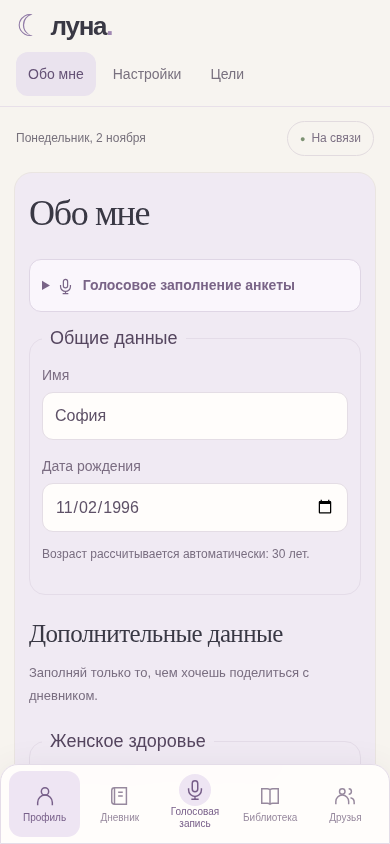
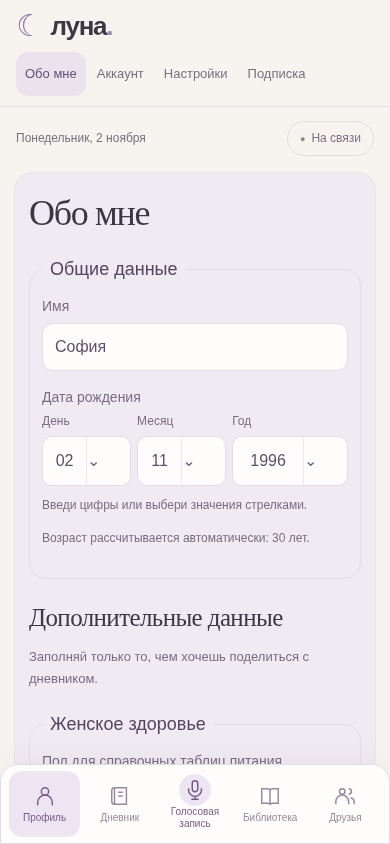
Split birthday into typed and selectable parts and refresh profile navigation

diff --git a/index.html b/index.html
@@ -1,9 +1,13 @@
 <!doctype html>
 <html lang="ru"><head><meta charset="utf-8"><meta name="viewport" content="width=device-width, initial-scale=1, viewport-fit=cover"><meta name="theme-color" content="#f7f4ef"><meta name="description" content="Луна — дневник цикла, сна и питания"><link rel="manifest" href="./manifest.webmanifest"><link rel="icon" href="./icon.svg"><link rel="apple-touch-icon" href="./icon-192.png"><link rel="stylesheet" href="./style.css"><link rel="stylesheet" href="./mobile.css"><link rel="stylesheet" href="./capture.css"><link rel="stylesheet" href="./profile.css"><title>Луна — в своём ритме</title></head>
-<body><div class="layout"><aside class="sidebar"><a class="logo" href="#home"><span>☾</span> луна<span class="logo-dot">.</span></a><p class="tagline">В СВОЁМ РИТМЕ</p><nav data-menu="profile" aria-label="Разделы профиля"><a href="#profile"><span class="menu-icon" aria-hidden="true">◉</span><span>Обо мне</span></a><a href="#settings"><span class="menu-icon" aria-hidden="true">⚙</span><span>Настройки</span></a><a href="#goals"><span class="menu-icon" aria-hidden="true">◎</span><span>Цели</span></a></nav><nav data-menu="diary" aria-label="Разделы дневника" hidden><a href="#home" aria-label="Мой день">◌ <span data-short="Сегодня">Мой день</span></a><a href="#cycle" aria-label="Мой цикл">✿ <span data-short="Цикл">Мой цикл</span></a><a href="#sleep" aria-label="Сон и отдых">☾ <span data-short="Сон">Сон и отдых</span></a><a href="#food" aria-label="Питание">♧ <span data-short="Питание">Питание</span></a><a href="#activity" aria-label="Активность и заметки"><span data-short="Ещё">Активность и заметки</span></a></nav><nav data-menu="library" aria-label="Разделы библиотеки" hidden><a href="#library"><span>Библиотека</span></a></nav><nav data-menu="friends" aria-label="Разделы друзей" hidden><a href="#friends"><span>Друзья</span></a></nav><div class="sidebar-note">Место, где можно<br>прислушаться к себе.<span>Твои данные остаются<br>в этом браузере.</span></div></aside>
+<body><div class="layout"><aside class="sidebar"><a class="logo" href="#home"><span>☾</span> луна<span class="logo-dot">.</span></a><p class="tagline">В СВОЁМ РИТМЕ</p><nav data-menu="profile" aria-label="Разделы профиля"><a href="#profile"><span class="menu-icon" aria-hidden="true">◉</span><span>Обо мне</span></a><a href="#account"><span class="menu-icon" aria-hidden="true">◉</span><span>Аккаунт</span></a><a href="#settings"><span class="menu-icon" aria-hidden="true">⚙</span><span>Настройки</span></a><a href="#subscription"><span class="menu-icon" aria-hidden="true">◇</span><span>Подписка</span></a></nav><nav data-menu="diary" aria-label="Разделы дневника" hidden><a href="#home" aria-label="Мой день">◌ <span data-short="Сегодня">Мой день</span></a><a href="#cycle" aria-label="Мой цикл">✿ <span data-short="Цикл">Мой цикл</span></a><a href="#sleep" aria-label="Сон и отдых">☾ <span data-short="Сон">Сон и отдых</span></a><a href="#food" aria-label="Питание">♧ <span data-short="Питание">Питание</span></a><a href="#activity" aria-label="Активность и заметки"><span data-short="Ещё">Активность и заметки</span></a></nav><nav data-menu="library" aria-label="Разделы библиотеки" hidden><a href="#library"><span>Библиотека</span></a></nav><nav data-menu="friends" aria-label="Разделы друзей" hidden><a href="#friends"><span>Друзья</span></a></nav><div class="sidebar-note">Место, где можно<br>прислушаться к себе.<span>Твои данные остаются<br>в этом браузере.</span></div></aside>
 <main><header><span id="today"></span><span class="badge" id="connection">На связи</span></header><section data-main-view="profile" id="profile" class="card profile-card"><h1>Обо мне</h1>
 <form id="profile-form" class="profile-sections">
-<fieldset class="profile-group"><legend>Общие данные</legend><div class="profile-fields"><label>Имя<input id="profile-name" maxlength="60" required autocomplete="given-name"></label><label>Дата рождения<input id="profile-birthDate" type="date" required autocomplete="bday"></label></div><p id="profile-age-hint" class="fine"></p></fieldset>
+<fieldset class="profile-group"><legend>Общие данные</legend><div class="profile-fields"><label>Имя<input id="profile-name" maxlength="60" required autocomplete="given-name"></label><div class="birth-group" role="group" aria-labelledby="birth-label"><span id="birth-label">Дата рождения</span><input id="profile-birthDate" type="hidden"><div class="birth-parts">
+<div class="birth-part"><label for="profile-birthDay">День</label><div class="birth-control"><input id="profile-birthDay" type="text" inputmode="numeric" autocomplete="bday-day" maxlength="2" pattern="[0-9]{1,2}" placeholder="ДД" required><select id="profile-pickDay" aria-label="Выбрать день"><option value="">⌄</option></select></div></div>
+<div class="birth-part"><label for="profile-birthMonth">Месяц</label><div class="birth-control"><input id="profile-birthMonth" type="text" inputmode="numeric" autocomplete="bday-month" maxlength="2" pattern="[0-9]{1,2}" placeholder="ММ" required><select id="profile-pickMonth" aria-label="Выбрать месяц"><option value="">⌄</option></select></div></div>
+<div class="birth-part"><label for="profile-birthYear">Год</label><div class="birth-control"><input id="profile-birthYear" type="text" inputmode="numeric" autocomplete="bday-year" maxlength="4" pattern="[0-9]{4}" placeholder="ГГГГ" required><select id="profile-pickYear" aria-label="Выбрать год"><option value="">⌄</option></select></div></div>
+</div><p class="fine birth-help">Введи цифры или выбери значения стрелками.</p></div></div><p id="profile-age-hint" class="fine"></p></fieldset>
 <div class="additional-heading"><h2>Дополнительные данные</h2><p class="fine">Заполняй только то, чем хочешь поделиться с дневником.</p></div>
 <fieldset class="profile-group"><legend>Женское здоровье</legend><div class="profile-fields"><label>Пол для справочных таблиц питания<select id="profile-sex"><option value="">Не указан</option><option value="female">Женский</option><option value="male">Мужской</option></select></label></div><div id="women-health-fields">
 <div class="profile-fields"><label>Менструальный статус<select id="profile-menstrualStage"><option value="unspecified">Не указан</option><option value="menstruating">Менструации есть</option><option value="premenarchal">Менструации ещё не начались</option><option value="amenorrhea">Менструаций сейчас нет — причина уточняется</option><option value="postpartum">Послеродовой период</option><option value="perimenopause">Перименопауза — переход к менопаузе</option><option value="menopause">Менопауза — установлена врачом</option><option value="surgical">После операции, влияющей на менструации</option><option value="treatment">Подавление менструаций на фоне лечения</option><option value="other">Другое / не хочу указывать</option></select></label>
@@ -31,7 +35,8 @@
 <section id="capture" data-main-view="capture" class="section card view-panel" hidden><span class="eyebrow">РАССКАЖИ О СВОЁМ ДНЕ</span><h2>Голосовая запись</h2><p class="muted">Расскажи, что ела, как спала или тренировалась. Проверь распознанные записи перед добавлением в дневники.</p><div id="capture-form"></div><form id="capture-review" class="stack" hidden><h3>Проверь записи</h3><p class="fine">Выбери точный продукт для расчёта КБЖУ. Если состава нет, сохрани текстовую заметку. Время сна указывается вместе с датами; отдельное пробуждение не меняет среднюю длительность сна.</p><div id="capture-items" class="stack"></div><button type="submit">Добавить в дневники</button></form><p id="capture-status" role="status" class="fine"></p><div id="capture-links"></div></section>
 <section id="activity" data-main-view="diary" class="section card" hidden><h2>Активность и заметки</h2><h3>Тренировки</h3><div id="workout-history" class="history"></div><h3>Другие записи</h3><div id="general-history" class="history"></div></section>
 <section id="settings" class="section card view-panel" data-main-view="profile" hidden><span class="eyebrow">МОЙ ПРОФИЛЬ</span><h2>Настройки</h2><h3>Мои данные</h3><p class="muted">Дневник и профиль хранятся в этом браузере. Скачай копию, чтобы сохранить записи отдельно.</p><button type="button" id="settings-export">Скачать копию данных</button><p class="fine">Выгрузка содержит личные записи. Храни файл в надёжном месте. Восстановление из файла пока недоступно.</p><a class="text-link" href="#profile">Изменить сведения обо мне →</a></section>
-<section id="goals" class="section card view-panel" data-main-view="profile" hidden><span class="eyebrow">МОЙ ПРОФИЛЬ</span><h2>Цели</h2><div class="empty-view"><span class="empty-symbol" aria-hidden="true">◎</span><h3>Твои цели начнутся здесь</h3><p>Раздел подготовлен. Добавление личных целей появится позже.</p></div></section>
+<section id="account" class="section card view-panel" data-main-view="profile" hidden><h2>Аккаунт</h2><h3>Мои данные</h3><p class="muted">Сейчас приложение работает без регистрации. Профиль и записи хранятся в этом браузере; вход и синхронизация между устройствами пока не подключены.</p><a class="text-link" href="#profile">Изменить сведения обо мне →</a><a class="text-link" href="#settings">Сохранить копию данных →</a></section>
+<section id="subscription" class="section card view-panel" data-main-view="profile" hidden><h2>Подписка</h2><p class="muted">Платные тарифы и оформление подписки пока не подключены.</p></section>
 <section id="library" class="section card view-panel" data-main-view="library" hidden><span class="eyebrow">УЗНАВАТЬ И ПОНИМАТЬ СЕБЯ</span><h2>Библиотека</h2><div class="empty-view"><span class="empty-symbol" aria-hidden="true">▤</span><h3>Место для полезных материалов</h3><p>Библиотека пока пуста. Здесь появятся материалы о питании, сне и самочувствии.</p></div></section>
 <section id="friends" class="section card view-panel" data-main-view="friends" hidden><span class="eyebrow">РЯДОМ ДРУГ С ДРУГОМ</span><h2>Друзья</h2><div class="empty-view"><span class="empty-symbol" aria-hidden="true">♧</span><h3>Твоё пространство общения</h3><p>Раздел подготовлен. Добавление друзей и общение пока недоступны.</p></div></section>
 <footer><span>луна. Меньше требований к себе, больше внимания.</span><button id="export-data" class="secondary">Скачать мои данные</button><button id="install" class="secondary" hidden>Установить приложение</button></footer><details class="privacy-details"><summary>Приватность и ограничения</summary><p class="privacy">Это первая версия дневника, не медицинский сервис. Записи дневника не отправляются на сервер и не синхронизируются. При поиске в Open Food Facts передаётся только поисковый запрос. При голосовом вводе браузер может передавать звук своему сервису распознавания; приложение не хранит аудио. Очистка браузера удалит записи — сохраняй резервную копию. Не используй общий профиль браузера для личных данных.</p></details><p id="notice" class="error" role="status"></p></main></div><nav class="bottom-nav" aria-label="Основная навигация"><a href="#profile" data-view="profile"><svg viewBox="0 0 24 24" aria-hidden="true"><circle cx="12" cy="7" r="4"/><path d="M4 22v-3a8 8 0 0 1 16 0v3"/></svg><span>Профиль</span></a><a href="#home" data-view="diary"><svg viewBox="0 0 24 24" aria-hidden="true"><path d="M6 3h13v18H6a3 3 0 0 1-3-3V6a3 3 0 0 1 3-3ZM6 3v18M10 8h5M10 12h5"/></svg><span>Дневник</span></a><a href="#capture" data-view="capture" class="capture-tab"><svg viewBox="0 0 24 24" aria-hidden="true"><rect x="9" y="2" width="6" height="12" rx="3"/><path d="M5 10v2a7 7 0 0 0 14 0v-2M12 19v3M8 22h8"/></svg><span>Голосовая запись</span></a><a href="#library" data-view="library"><svg viewBox="0 0 24 24" aria-hidden="true"><path d="M3 4h6a5 5 0 0 1 3 1 5 5 0 0 1 3-1h6v16h-6a5 5 0 0 0-3 1 5 5 0 0 0-3-1H3ZM12 5v16"/></svg><span>Библиотека</span></a><a href="#friends" data-view="friends"><svg viewBox="0 0 24 24" aria-hidden="true"><circle cx="9" cy="7" r="3"/><path d="M2 21v-3a7 7 0 0 1 14 0v3M16 4a3 3 0 0 1 0 6M18 14a5 5 0 0 1 4 5v2"/></svg><span>Друзья</span></a></nav><script src="./profile-model.js" defer></script><script src="./profile.js" defer></script><script src="./norms.js" defer></script><script src="./app.js" defer></script><script src="./profile-parser.js" defer></script><script src="./capture-parser.js" defer></script><script src="./voice.js" defer></script><script src="./capture.js" defer></script><script src="./navigation.js" defer></script></body></html>

diff --git a/profile.js b/profile.js
@@ -3,18 +3,22 @@
 (() => {
  const q=s=>document.querySelector(s),healthKeys=['menstrualStage','cyclePattern','cycleLength','periodLength','hormones','fertility','healthNotes'];
  const field=key=>q('#profile-'+key);let lastStatus=null;
- function update(){const birth=field('birthDate').value,years=LunaProfileModel.age(birth,localDate());q('#profile-age-hint').textContent=birth?(years===null?'Проверь дату рождения.':`Возраст рассчитывается автоматически: ${years} лет.`):state.profile&&!state.profile.birthDate?'Раньше был указан только возраст. Введи дату рождения — она не восстанавливается из возраста.':'';q('#women-health-fields').hidden=field('sex').value==='male';if(lastStatus==='lactating'&&field('status').value!=='lactating')field('breastfeeding').checked=false;field('breastfeeding').disabled=field('status').value==='lactating';if(field('status').value==='lactating')field('breastfeeding').checked=true;lastStatus=field('status').value;field('status').closest('label').hidden=years!==null&&years<10;if(years!==null&&years<10){field('status').value='none';field('breastfeeding').checked=false;}
+ function syncBirthDate(){const day=field('birthDay').value.trim(),month=field('birthMonth').value.trim(),year=field('birthYear').value.trim();field('birthDate').value=/^\d{1,2}$/.test(day)&&/^\d{1,2}$/.test(month)&&/^\d{4}$/.test(year)?`${year}-${month.padStart(2,'0')}-${day.padStart(2,'0')}`:'';const m=Number(month),y=Number(year);const count=m>=1&&m<=12?new Date(Date.UTC(/^\d{4}$/.test(year)?y:2000,m,0)).getUTCDate():31;const picker=field('pickDay');if(picker.options.length!==count+1){picker.replaceChildren(new Option('⌄',''));for(let d=1;d<=count;d++)picker.add(new Option(String(d),String(d)));}}
+ function loadBirthDate(value){const parts=(value||'').split('-');for(const [key,index]of [['birthDay',2],['birthMonth',1],['birthYear',0]])field(key).value=parts[index]||'';}
+ function initBirthDate(){const months=['Январь','Февраль','Март','Апрель','Май','Июнь','Июль','Август','Сентябрь','Октябрь','Ноябрь','Декабрь'];months.forEach((label,i)=>field('pickMonth').add(new Option(label,String(i+1))));const year=new Date().getFullYear();for(let y=year;y>=year-120;y--)field('pickYear').add(new Option(String(y),String(y)));for(const part of ['Day','Month','Year'])field('pick'+part).onchange=()=>{const picker=field('pick'+part);if(picker.value){field('birth'+part).value=part==='Year'?picker.value:picker.value.padStart(2,'0');picker.value='';update();}};}
+ function update(){syncBirthDate();const birth=field('birthDate').value,years=LunaProfileModel.age(birth,localDate());const partial=['birthDay','birthMonth','birthYear'].some(k=>field(k).value);q('#profile-age-hint').textContent=birth?(years===null?'Проверь дату рождения.':`Возраст рассчитывается автоматически: ${years} лет.`):partial?'Укажи день, месяц и год полностью.':state.profile&&!state.profile.birthDate?'Раньше был указан только возраст. Введи дату рождения — она не восстанавливается из возраста.':'';q('#women-health-fields').hidden=field('sex').value==='male';if(lastStatus==='lactating'&&field('status').value!=='lactating')field('breastfeeding').checked=false;field('breastfeeding').disabled=field('status').value==='lactating';if(field('status').value==='lactating')field('breastfeeding').checked=true;lastStatus=field('status').value;field('status').closest('label').hidden=years!==null&&years<10;if(years!==null&&years<10){field('status').value='none';field('breastfeeding').checked=false;}
  const weight=Number(field('weight').value),height=Number(field('height').value);const value=LunaProfileModel.bmi(height,weight);q('#profile-bmi').textContent=value===null?'—':value.toLocaleString('ru');
  q('#profile-cycle-note').textContent='Календарная схема фаз не применяется при беременности, лактации, отсутствии или нерегулярности менструаций и использовании гормональных средств. История отметок сохраняется.';
  }
  function init(){
-  field('birthDate').max=localDate();
+  initBirthDate();
   for(const [key,[label,min,max]]of Object.entries(LunaProfileModel.metrics)){const l=textEl('label',label),input=document.createElement('input');input.id='profile-'+key;input.type='number';input.inputMode='decimal';input.min=min;input.max=max;input.step='any';input.placeholder='Необязательно';l.append(input);q('#profile-body-fields').append(l);}
   const p=state.profile;if(p){for(const key of ['name','birthDate','sex','status'])if(p[key]!=null)field(key).value=p[key];for(const key of Object.keys(LunaProfileModel.metrics)){const value=p.body?.[key]??(key==='weight'?p.weight:null);if(value!=null)field(key).value=value;}
    for(const key of healthKeys)if(p.health?.[key]!=null)field(key).value=p.health[key];field('breastfeeding').checked=Boolean(p.health?.breastfeeding||p.status==='lactating');
   }
+  loadBirthDate(field('birthDate').value);
   q('#profile-form').addEventListener('input',update);q('#profile-form').addEventListener('change',update);update();
-  q('#profile-form').onsubmit=e=>{e.preventDefault();const old=state.profile;const birthDate=field('birthDate').value,age=LunaProfileModel.age(birthDate,localDate());const name=field('name').value.trim();let error='';if(!name||name.length>60||age===null)error='Проверь имя и дату рождения: дата не должна быть в будущем, возраст — не более 120 лет.';
+  q('#profile-form').onsubmit=e=>{e.preventDefault();syncBirthDate();const old=state.profile;const birthDate=field('birthDate').value,age=LunaProfileModel.age(birthDate,localDate());const name=field('name').value.trim();let error='';if(!name||name.length>60||age===null)error='Проверь имя и дату рождения: дата не должна быть в будущем, возраст — не более 120 лет.';
    const body={...(old?.body||{})};for(const [key,[label,min,max]]of Object.entries(LunaProfileModel.metrics)){const raw=field(key).value;if(raw===''){delete body[key];continue;}const value=Number(raw);if(!Number.isFinite(value)||value<min||value>max)error=`Проверь показатель «${label}».`;else body[key]=value;}
    if(body.muscleMass!=null&&body.weight!=null&&body.muscleMass>body.weight)error='Мышечная масса не может превышать вес тела.';if(body.boneMass!=null&&body.weight!=null&&body.boneMass>body.weight)error='Костная масса не может превышать вес тела.';
    const health={...(old?.health||{})};for(const key of healthKeys){const raw=field(key).value;health[key]=['cycleLength','periodLength'].includes(key)?raw===''?null:Number(raw):raw.trim();}health.breastfeeding=field('breastfeeding').checked;

diff --git a/profile.css b/profile.css
@@ -1,2 +1,4 @@
 .profile-card>h1{font-size:42px;margin:0 0 28px}.profile-sections,#profile-form{display:grid;grid-template-columns:minmax(0,1fr);gap:24px}.profile-group{margin:0;border:1px solid #e4dce8;border-radius:16px;padding:20px;min-width:0}.profile-group>legend{font-size:19px;font-weight:500;padding:0 8px;color:#55465f}.profile-fields{display:grid;grid-template-columns:repeat(2,minmax(0,1fr));gap:18px}.profile-group label{font-size:13px;min-width:0}.profile-group input,.profile-group select,.profile-group textarea{font-size:16px;min-height:48px}.profile-group textarea{border:1px solid #e4dde5;border-radius:10px;background:#fffdfb;padding:12px;width:100%;font-family:inherit;color:#5e5167}.profile-sections>.additional-heading h2{font-size:27px;margin:0}.additional-heading p{margin-bottom:0}.profile-check{display:flex;flex-direction:row;align-items:center;min-height:48px;margin:18px 0}.profile-check input{width:20px;height:20px;min-height:20px;flex:none}.profile-bmi{display:flex;align-items:center;justify-content:space-between;gap:15px;padding:18px;margin-top:20px;border-radius:12px;background:#f0eaf2;font-size:14px}.profile-bmi output{font-size:25px;color:#796487}.profile-card .fine{font-size:13px;line-height:1.7}#profile-form>button{width:100%;min-height:48px}body[data-view=profile] main>header{display:flex;margin-bottom:20px;font-size:13px}#women-health-fields{margin-top:20px}#women-health-fields>label:not(.profile-check){margin-top:18px}.profile-card input:invalid:not(:placeholder-shown){box-shadow:none}
 @media(max-width:767px),(max-width:1023px) and (pointer:coarse){.profile-card>h1{font-size:36px;margin-bottom:26px}.profile-fields{grid-template-columns:1fr;gap:18px}.profile-group{padding:18px 12px}.profile-group>legend{font-size:18px}.profile-sections,#profile-form{gap:24px;grid-template-columns:minmax(0,1fr)}#profile-form>fieldset,#profile-form>.additional-heading{grid-column:1/-1}.profile-sections>.additional-heading h2{font-size:25px}.profile-group label{font-size:14px}body[data-view=profile] main>header{font-size:12px;margin:0 2px 16px;gap:8px}.profile-group .badge{font-size:10px}.profile-group input[type=date]{min-inline-size:0}.profile-bmi{padding:14px}.profile-card{padding:20px 14px}}
+.birth-group{min-width:0;color:#7b6d82;font-size:13px;display:flex;flex-direction:column;gap:9px}.birth-parts{display:grid;grid-template-columns:1fr 1fr 1.3fr;gap:6px;min-width:0}.birth-part{min-width:0;display:grid;gap:8px}.birth-part>label{font-size:12px;min-width:0}.birth-control{display:grid;grid-template-columns:minmax(0,1fr) 44px;min-width:0;border:1px solid #e4dde5;background:#fffdfb;border-radius:10px;overflow:hidden}.birth-control input,.birth-control select{margin:0;border:0;border-radius:0;min-width:0;min-height:48px;padding:10px 0;text-align:center;background:transparent;font-size:16px}.birth-control select{width:44px;appearance:none;-webkit-appearance:none;border-left:1px solid #eee7ef;cursor:pointer;color:#796487}.birth-control select option{color:#393844;text-align:left}.birth-control:focus-within{outline:2px solid #866295;outline-offset:2px}.birth-control input:focus-visible,.birth-control select:focus-visible{outline-offset:-3px}.birth-help{margin:0!important;font-size:12px!important}#account .text-link{display:block}
+@media(max-width:767px),(max-width:1023px) and (pointer:coarse){.birth-group{font-size:14px}.birth-part>label{font-size:12px}.birth-control input,.birth-control select{padding:10px 0;font-size:16px}.sidebar nav[data-menu=profile]{gap:2px}.sidebar nav[data-menu=profile] a{padding-left:9px;padding-right:9px}.sidebar nav[data-menu=profile] a span{font-size:13px}}

diff --git a/navigation.js b/navigation.js
@@ -2,8 +2,8 @@
 'use strict';
 (() => {
  const phone=matchMedia('(max-width:767px),(max-width:1023px) and (pointer:coarse)');
- const profileSections=new Set(['profile','settings','goals']);
- function current(){let id;try{id=decodeURIComponent(location.hash.slice(1)||'profile');}catch{id='profile';}const target=document.getElementById(id);const area=target?.closest('[data-main-view]')?.dataset.mainView||'profile';return {id,target,area,profileSection:profileSections.has(id)?id:'profile'};}
+ const profileSections=new Set(['profile','account','settings','subscription']);
+ function current(){if(location.hash==='#goals')history.replaceState(null,'','#profile');let id;try{id=decodeURIComponent(location.hash.slice(1)||'profile');}catch{id='profile';}const target=document.getElementById(id);const area=target?.closest('[data-main-view]')?.dataset.mainView||'profile';return {id,target,area,profileSection:profileSections.has(id)?id:'profile'};}
  function refresh(){const route=current();let section=route.target?.closest('#food,#sleep,#cycle,#activity')?.id||'home';if(section==='cycle'&&$('#cycle').dataset.available==='false')section='home';document.body.dataset.view=route.area;for(const panel of document.querySelectorAll('[data-main-view]')){let visible=panel.dataset.mainView===route.area;if(route.area==='profile')visible=visible&&panel.id===route.profileSection;if(route.area==='diary'&&phone.matches)visible=visible&&(panel.id===section||!panel.id&&section==='home');if(panel.id==='cycle'&&panel.dataset.available==='false')visible=false;panel.hidden=!visible;}
   for(const menu of document.querySelectorAll('.sidebar nav[data-menu]'))menu.hidden=menu.dataset.menu!==route.area;
   for(const link of document.querySelectorAll('.bottom-nav a')){const active=link.dataset.view===route.area;link.classList.toggle('active',active);if(active)link.setAttribute('aria-current','page');else link.removeAttribute('aria-current');}

diff --git a/sw.js b/sw.js
@@ -1,4 +1,4 @@
-const CACHE='luna-diary-v16';
+const CACHE='luna-diary-v17';
 const ASSETS=['./','./index.html','./style.css','./mobile.css','./capture.css','./profile.css','./profile-model.js','./profile.js','./capture-parser.js','./capture.js','./app.js','./voice.js','./navigation.js','./profile-parser.js','./norms.js','./manifest.webmanifest','./icon.svg','./icon-192.png','./icon-512.png'];
 self.addEventListener('install',event=>{event.waitUntil(caches.open(CACHE).then(cache=>cache.addAll(ASSETS)).then(()=>self.skipWaiting()));});
 self.addEventListener('activate',event=>{event.waitUntil(caches.keys().then(keys=>Promise.all(keys.filter(key=>(key.startsWith('little-steps-')||key.startsWith('luna-diary-'))&&key!==CACHE).map(key=>caches.delete(key)))).then(()=>self.clients.claim()));});

diff --git a/voice.js b/voice.js
@@ -5,7 +5,6 @@
  const Recognition=window.SpeechRecognition||window.webkitSpeechRecognition;
  const contexts=[
   {id:'capture',name:'Голосовая запись',mode:'capture',anchor:'#capture-form'},
-  {id:'profile-fill',name:'Мой профиль',mode:'profile',anchor:'#profile-form',before:true},
   {id:'cycle',name:'Цикл',anchor:'#cycle-form',before:true},
   {id:'sleep',name:'Сон',anchor:'#sleep-form',before:true},
   {id:'food',name:'Питание',anchor:'#food-form',before:true,master:true,fields:[['local-product-search','Название для поиска в моих продуктах']]},

diff --git a/tests/profile_controls_smoke.py b/tests/profile_controls_smoke.py
@@ -1,0 +1,39 @@
+"""Manual/dropdown DOB, real date validation, profile menus, disabled profile dictation."""
+from playwright.sync_api import sync_playwright, expect
+from profile_form import fill_birth_date
+from datetime import datetime,timezone
+import os
+URL=os.environ.get('LUNA_TEST_URL','http://127.0.0.1:8016/Test/')
+with sync_playwright() as p:
+ b=p.chromium.launch(executable_path='/usr/bin/chromium',args=['--no-sandbox']);ctx=b.new_context(viewport={'width':390,'height':844},has_touch=True,is_mobile=True,locale='ru-RU',timezone_id='Europe/Podgorica');ctx.add_init_script('window.micCalls=0;window.SpeechRecognition=class{constructor(){micCalls++}}')
+ page=ctx.new_page();errors=[];page.on('pageerror',lambda e:errors.append(str(e)));page.clock.install(time=datetime(2026,11,2,12,tzinfo=timezone.utc));page.goto(URL);page.wait_for_function('navigator.serviceWorker.controller!==null')
+ assert page.locator('#profile [type=date]').count()==0 and page.locator('[data-voice-section="profile-fill"]').count()==0
+ assert page.locator('#profile .voice-start').count()==0 and page.evaluate('micCalls')==0
+ menu=page.locator('[data-menu="profile"]');assert menu.locator('a span:not(.menu-icon)').all_text_contents()==['Обо мне','Аккаунт','Настройки','Подписка']
+ page.locator('#profile-name').fill('София');fill_birth_date(page,'2000-02-29');page.locator('#profile-form>button').click();assert page.evaluate('state.profile.birthDate')=='2000-02-29' and page.evaluate('profileAge()')==26
+ # Lists adapt to leap years and month length; changing a year does not silently fix a typed day.
+ page.locator('#profile-pickYear').select_option('2001');assert page.locator('#profile-pickDay option[value="29"]').count()==0
+ assert page.locator('#profile-birthDay').input_value()=='29';page.locator('#profile-form>button').click();assert page.evaluate('state.profile.birthDate')=='2000-02-29'
+ assert 'Проверь' in page.locator('#profile-age-hint').inner_text()
+ page.locator('#profile-pickDay').select_option('28');page.locator('#profile-form>button').click();assert page.evaluate('state.profile.birthDate')=='2001-02-28'
+ page.locator('#profile-pickYear').select_option('1996');page.locator('#profile-pickMonth').select_option('11');page.locator('#profile-pickDay').select_option('2');page.locator('#profile-form>button').click();assert page.evaluate('state.profile.birthDate')=='1996-11-02'
+ fill_birth_date(page,'2026-11-03');page.locator('#profile-form>button').click();assert page.evaluate('state.profile.birthDate')=='1996-11-02'
+ fill_birth_date(page,'1996-11-02');page.locator('#profile-name').fill('Черновик')
+ for section in ['account','settings','subscription']:
+  menu.locator(f'[href="#{section}"]').click();expect(page.locator('#'+section)).to_be_visible();assert page.locator('.bottom-nav [aria-current="page"]').inner_text()=='Профиль'
+  assert menu.locator('[aria-current="page"]').get_attribute('href')=='#'+section
+ menu.locator('[href="#profile"]').click();assert page.locator('#profile-name').input_value()=='Черновик'
+ # All profile items fit on small phones, inputs remain readable and picker controls tappable.
+ for width in [320,375,390,430,844,1280]:
+  page.set_viewport_size({'width':width,'height':844});assert page.evaluate('document.documentElement.scrollWidth<=innerWidth'),width
+  if width<500:
+   for link in menu.locator('a').all():
+    box=link.bounding_box();assert box['x']>=0 and box['x']+box['width']<=width
+   for part in ['Day','Month','Year']:
+    assert page.locator('#profile-pick'+part).bounding_box()['width']>=44
+    assert page.locator('#profile-birth'+part).evaluate('(e)=>parseFloat(getComputedStyle(e).fontSize)')>=16
+ page.set_viewport_size({'width':390,'height':844});page.locator('#profile-name').fill('София');page.locator('#profile-form>button').click();page.evaluate('document.activeElement.blur();scrollTo({top:0,behavior:"instant"})');page.screenshot(path='/tmp/luna-check/profile-birth-parts.png')
+ ctx.set_offline(True);page.reload();assert page.locator('#profile-birthDay').input_value()=='02' and page.locator('#profile-birthMonth').input_value()=='11' and page.locator('#profile-birthYear').input_value()=='1996'
+ menu.locator('[href="#account"]').click();expect(page.locator('#account')).to_be_visible();page.reload();expect(page.locator('#account')).to_be_visible()
+ page.goto(URL+'#goals');expect(page.locator('#profile')).to_be_visible();assert page.evaluate('location.hash')=='#profile'
+ assert not errors,errors;b.close();print('PASS: manual/dropdown date parts, leap-year/day lists, invalid/future dates, saved DOB hydration, four profile submenus, drafts, phone controls, offline/direct/legacy routes, no profile microphone')

diff --git a/tests/navigation_smoke.py b/tests/navigation_smoke.py
@@ -1,3 +1,4 @@
+from profile_form import fill_birth_date
 """Bottom navigation, contextual profile menu and preservation of existing diary state."""
 from playwright.sync_api import sync_playwright, expect
 from pathlib import Path
@@ -13,16 +14,16 @@ with sync_playwright() as p:
  assert page.locator('body').evaluate('(e)=>getComputedStyle(e).fontFamily').startswith('Arial')
  assert bottom.get_by_role('link').all_text_contents()==['Профиль','Дневник','Голосовая запись','Библиотека','Друзья']
  assert page.locator('#profile').is_visible() and not page.locator('#sleep').is_visible()
- assert page.locator('[data-menu="profile"] a').all_text_contents()==['◉Обо мне','⚙Настройки','◎Цели']
+ assert page.locator('[data-menu="profile"] a').all_text_contents()==['◉Обо мне','◉Аккаунт','⚙Настройки','◇Подписка']
  page.locator('#profile-name').fill('Несохранённое имя')
  page.locator('[data-menu="profile"] a[href="#settings"]').click();expect(page.locator('#settings')).to_be_visible() and not page.locator('#profile').is_visible()
  assert bottom.locator('[aria-current="page"]').inner_text()=='Профиль'
  with page.expect_download() as d:page.locator('#settings-export').click()
  data=json.loads(Path(d.value.path()).read_text());assert 'meals' in data and 'sleep' in data
- page.locator('[data-menu="profile"] a[href="#goals"]').click();expect(page.locator('#goals')).to_be_visible()
+ page.locator('[data-menu="profile"] a[href="#account"]').click();expect(page.locator('#account')).to_be_visible();page.locator('[data-menu="profile"] a[href="#subscription"]').click();expect(page.locator('#subscription')).to_be_visible()
  page.locator('[data-menu="profile"] a[href="#profile"]').click();assert page.locator('#profile-name').input_value()=='Несохранённое имя'
  # Save a profile and use a diary, then verify tab transitions retain both data and drafts.
- page.locator('#profile-birthDate').fill('1991-01-01');page.locator('#profile-sex').select_option('female');page.locator('#profile-weight').fill('60');page.locator('#profile-form button').click()
+ fill_birth_date(page,'1991-01-01');page.locator('#profile-sex').select_option('female');page.locator('#profile-weight').fill('60');page.locator('#profile-form button').click()
  bottom.get_by_role('link',name='Дневник',exact=True).click();expect(page.locator('#home')).to_be_visible() and page.locator('#sleep').is_visible() and not page.locator('#profile').is_visible()
  assert page.locator('[data-menu="diary"]').is_visible() and not page.locator('[data-menu="profile"]').is_visible()
  page.locator('#food-product').select_option('oats');page.locator('#food-form button').click();assert page.locator('#food-calories').inner_text()=='379 ккал'

diff --git a/tests/about_smoke.py b/tests/about_smoke.py
@@ -1,3 +1,4 @@
+from profile_form import fill_birth_date
 """About-me structure, DOB-derived norms, health context, optional device readings and persistence."""
 from playwright.sync_api import sync_playwright, expect
 from datetime import datetime,timezone
@@ -11,9 +12,9 @@ with sync_playwright() as p:
  assert page.locator('#profile h1').inner_text()=='Обо мне'
  assert 'НАЧНЁМ' not in page.locator('#profile').inner_text() and 'Справочные ориентиры учитывают возраст' not in page.locator('#profile').inner_text()
  assert page.locator('#profile-age').count()==0
- assert page.locator('#profile-form fieldset').first.locator('input').count()==2
+ assert page.locator('#profile-form fieldset').first.locator('input:not([type=hidden])').count()==4
  assert page.locator('#profile-form fieldset legend').all_text_contents()==['Общие данные','Женское здоровье','Тело']
- page.locator('#profile-name').fill('София');page.locator('#profile-birthDate').fill('1996-11-02')
+ page.locator('#profile-name').fill('София');fill_birth_date(page,'1996-11-02')
  def save():page.locator('#profile-form>button').click()
  save();assert page.evaluate('state.profile.age')==30 and page.evaluate('reference("iron")') is None
  assert page.evaluate('Object.keys(state.profile.body).length')==0
@@ -58,5 +59,5 @@ with sync_playwright() as p:
  # Migration keeps the prior known age for references, without fabricating a birthday.
  ctx=b.new_context();ctx.add_init_script("if(!localStorage.getItem('luna-diary-v1'))localStorage.setItem('luna-diary-v1',JSON.stringify({periods:[],sleep:[],meals:[],profile:{name:'Прежний профиль',age:7,ageUnit:'months',weight:7.5,sex:'female',status:'none'}}))")
  page=ctx.new_page();page.goto(URL);assert page.locator('#profile-birthDate').input_value()=='' and page.locator('#profile-weight').input_value()=='7.5' and page.evaluate('reference("iron")') is None
- page.locator('#profile-birthDate').fill(page.evaluate('localDate()'));page.locator('#profile-form>button').click();assert page.evaluate('state.profile.legacyAge.age')==7 and page.evaluate('profileAge()')==0
+ fill_birth_date(page,page.evaluate('localDate()'));page.locator('#profile-form>button').click();assert page.evaluate('state.profile.legacyAge.age')==7 and page.evaluate('profileAge()')==0
  b.close();print('PASS: mobile About me/date/sections, DOB age and nutrition, optional body metrics/BMI, health states and cycle suppression, pregnancy/lactation, no inferred fertility, legacy preservation, validation/quota rollback, responsive inputs, offline/export')

diff --git a/tests/supplements_smoke.py b/tests/supplements_smoke.py
@@ -1,3 +1,4 @@
+from profile_form import fill_birth_date
 """Profile, DRI, salt, archived-data and composite omega-3 browser regressions."""
 from playwright.sync_api import sync_playwright
 from pathlib import Path
@@ -36,7 +37,7 @@ with sync_playwright() as p:
  assert page.locator('#profile-month').count()==0
  def profile(age,sex='female',status='none'):
   previous=page.evaluate('location.hash');page.evaluate('location.hash="profile"');page.wait_for_function('document.querySelector("#profile").hidden===false')
-  page.locator('#profile-name').fill('Тестовый профиль');page.locator('#profile-birthDate').fill(page.evaluate('(age)=>{const d=new Date();return `${d.getFullYear()-age}-${String(d.getMonth()+1).padStart(2,"0")}-${String(d.getDate()).padStart(2,"0")}`}',age));page.locator('#profile-birthDate').dispatch_event('change');page.locator('#profile-sex').select_option(sex);page.locator('#profile-weight').fill('60')
+  page.locator('#profile-name').fill('Тестовый профиль');fill_birth_date(page,page.evaluate('(age)=>{const d=new Date();return `${d.getFullYear()-age}-${String(d.getMonth()+1).padStart(2,"0")}-${String(d.getDate()).padStart(2,"0")}`}',age));page.locator('#profile-birthDate').dispatch_event('change');page.locator('#profile-sex').select_option(sex);page.locator('#profile-weight').fill('60')
   if sex=='female' and age>=10:
    page.locator('#profile-status').select_option(status)
   page.locator('#profile-form button').click()

diff --git a/tests/mobile_smoke.py b/tests/mobile_smoke.py
@@ -1,3 +1,4 @@
+from profile_form import fill_birth_date
 """Phone navigation, touch forms, rotation, data retention and offline styles."""
 from playwright.sync_api import sync_playwright, expect
 from pathlib import Path
@@ -25,10 +26,10 @@ with sync_playwright() as p:
    if field.is_visible():assert field.evaluate('(e)=>parseFloat(getComputedStyle(e).fontSize)')>=16
  for width in [320,375,390,430]:
   page.set_viewport_size({'width':width,'height':844});layout()
-  assert page.locator('#profile-birthDate').bounding_box()['y']>page.locator('#profile-name').bounding_box()['y']
+  assert page.locator('#profile-birthDay').bounding_box()['y']>page.locator('#profile-name').bounding_box()['y']
  page.set_viewport_size({'width':390,'height':844})
  page.locator('#profile-name').fill('София');page.locator('#profile-sex').select_option('female')
- page.locator('#profile-birthDate').fill('1996-01-01');page.locator('#profile-weight').fill('60');page.locator('#profile-form button').click()
+ fill_birth_date(page,'1996-01-01');page.locator('#profile-weight').fill('60');page.locator('#profile-form button').click()
  nav.locator('[href="#home"]').click();expect(page.locator('#home')).to_be_visible();assert not page.locator('#food').is_visible()
  diary('sleep');page.locator('#sleep-start').fill((datetime.now()-timedelta(hours=8)).strftime('%Y-%m-%dT%H:%M'))
  page.locator('#sleep-end').fill(datetime.now().strftime('%Y-%m-%dT%H:%M'));page.locator('#sleep-form button').click()

diff --git a/tests/voice_smoke.py b/tests/voice_smoke.py
@@ -25,7 +25,7 @@ with sync_playwright() as p:
  def end():page.evaluate('window.__speech.at(-1).end()')
  def phrase(root,text):
   root.locator('.voice-start').click();emit([{'text':text,'final':True}]);end()
- assert page.locator('.voice-card').count()==9
+ assert page.locator('.voice-card').count()==8
  assert page.evaluate('__speech.length')==0,'Microphone must never start automatically'
  sleep=widget('sleep');sleep.locator('.voice-editor').fill('Сегодня')
  sleep.locator('.voice-start').click()
@@ -109,7 +109,7 @@ with sync_playwright() as p:
  data=json.loads(Path(download.value.path()).read_text());assert len(data['voiceNotes'])==before+2
  assert all(isinstance(n['text'],str) and 'audio' not in n for n in data['voiceNotes'])
  ctx.set_offline(True);page.reload()
- assert page.locator('.voice-card').count()==9 and page.locator('#connection').inner_text()=='Без интернета'
+ assert page.locator('.voice-card').count()==8 and page.locator('#connection').inner_text()=='Без интернета'
  sleep=widget('sleep');assert 'Дополнение' in sleep.locator('.voice-history').inner_text()
  note_id=page.evaluate("state.voiceNotes.find(n=>n.section==='sleep').id")
  sleep.get_by_role('button',name=f'Удалить заметку {note_id}',exact=True).click();page.reload();sleep=widget('sleep');assert sleep.locator('.voice-note').count()==0
